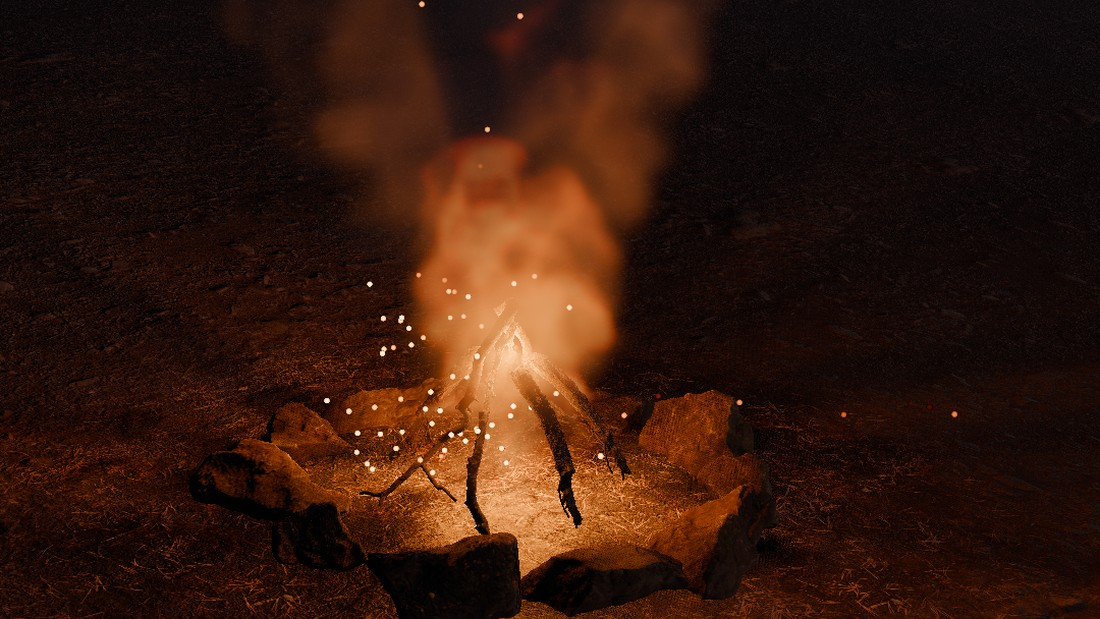
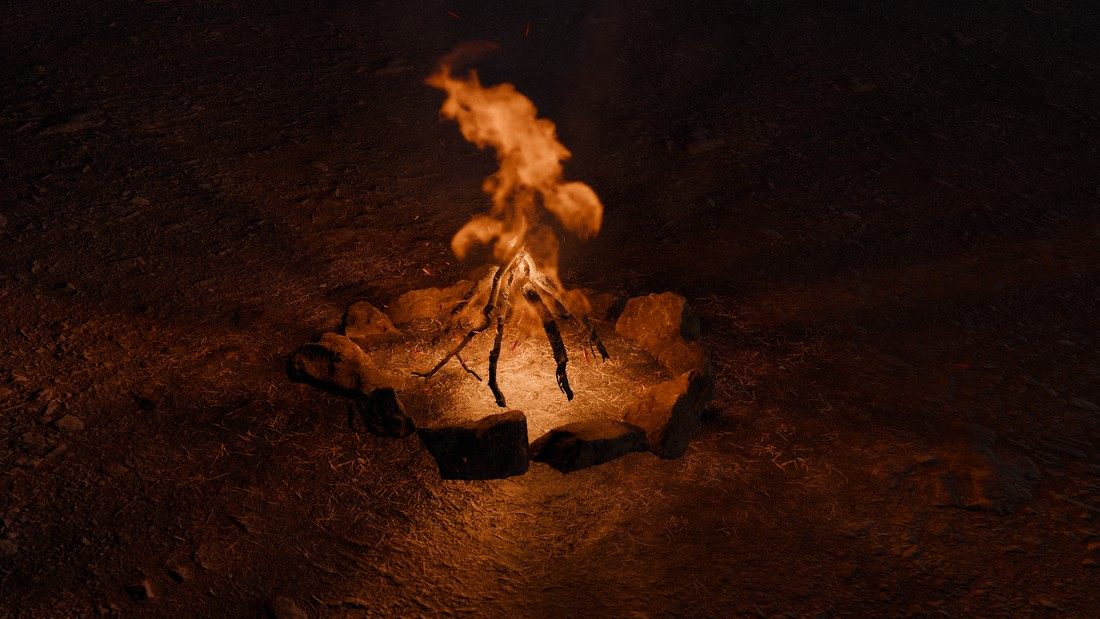
docs: reshot campfire frame
Claude-Session: https://claude.ai/code/session_019a7Xd2PZ5gvYQ3NZ7og5rU

diff --git a/site/content/features/physics.md b/site/content/features/physics.md
@@ -20,9 +20,9 @@ Windows x64 and Linux x86_64. Choose `PhysX` or `Jolt Physics` in **Project Sett
 - **Smoke on the ground** (PhysXFlow3D `terrain_floor`, `smoke_buoyancy`): Flow gas rests on the terrain and slides downhill, and heavier-than-air smoke pools as dust or fog.
 - **Fire light and embers** (`PhysXFlow3D.fire_light`, `embers`): a burning Flow emitter lights its surroundings with a soft-shadowed light that flickers with the flame's puffing, and throws up glowing embers, in raster and path tracing.
 
-  ![A campfire in a stone ring at night, lighting the ground and stones, with embers rising](media/physx-campfire.jpg)
+  ![A campfire in a stone ring at night, seen from above, lighting the ground and stones](media/physx-campfire.jpg)
 
-  *Fire light and embers: the fire lights the stone ring and the ground around it, and embers rise and drift off.*
+  *Fire light and embers: flame tongues light the stone ring and the ground around it, and small embers streak up from the fire.*
 
 - **Particle fluid surface** (`PhysXParticleFluid3D.render_mode`, `foam_enabled`): particle fluids draw as clear water on a real isosurface mesh that casts shadows, shows in reflections and is path traced; Screen Space is the lighter alternative. Spray falls as clear drops, and foam and bubbles form only where water strikes water, so a smooth pour stays clear.
 
